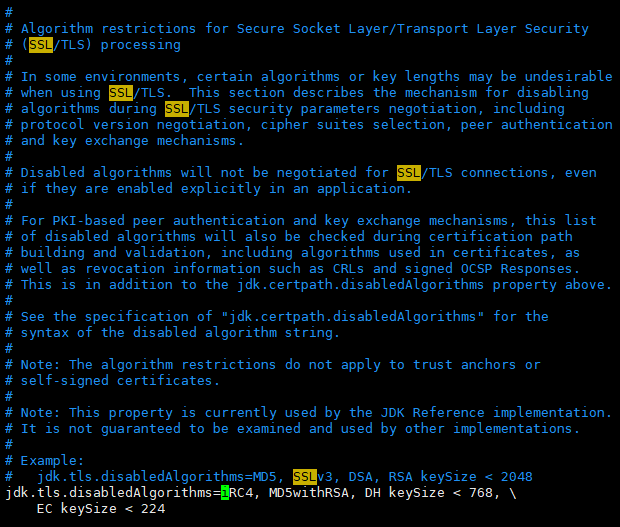
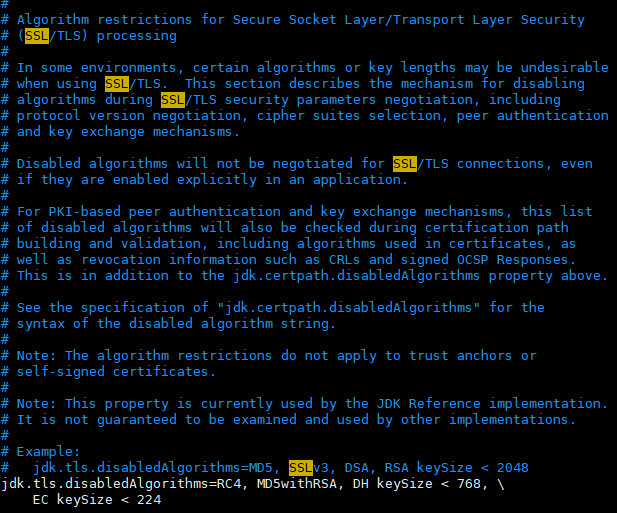
feat: pic and grammar fix.

Changed region(s): [[0.0, 0.0, 0.9854, 0.9981]]

diff --git a/memo/JDK_8_ssl_config.md b/memo/JDK_8_ssl_config.md
@@ -1,10 +1,10 @@
 # Modify configs for SSL connections in JDK 8
 
 ## PROBLEM DESCRIPTION
-MySQL/Redis in cloud services maybe configed as SSL only, which prevent Java server accessing without SSL configuration. In addition to configuration in Java Server Process, we have to check whether SSL is enabled in JDK.
+MySQL/Redis in cloud services could be configured as SSL only, which prevents the Java server connect MySQL/Redis without SSL configuration. In addition to SSL connection properties in the Java Server Process, we should modify the configuration in JRE.
 
 ## SOLUTION
-Edit `jdk.tls.disabledAlgorithms` configuration in `java.security`(Path maybe `/etc/alternatives/jre_1.8.0_openjdk/lib/security/java.security` in Centos 7), remove `SSL` if exists.
+Edit `jdk.tls.disabledAlgorithms` configuration in `java.security`(Path maybe `/etc/alternatives/jre_1.8.0_openjdk/lib/security/java.security` in Centos 7), remove `SSL` or `TLS` if exists.
 
 ##### Before
 ![Before](./pics/ssl_config_before.png)

diff --git a/Readme.md b/Readme.md
@@ -2,7 +2,7 @@
 
 ## Java Server
 
-1. [JDK SSL configuration for MySQL/Redis connections.]()
+1. [JDK SSL configuration for MySQL/Redis connections.](https://github.com/AlteracFinished/memo/blob/main/memo/JDK_8_ssl_config.md)
 
 ## Databricks
 
